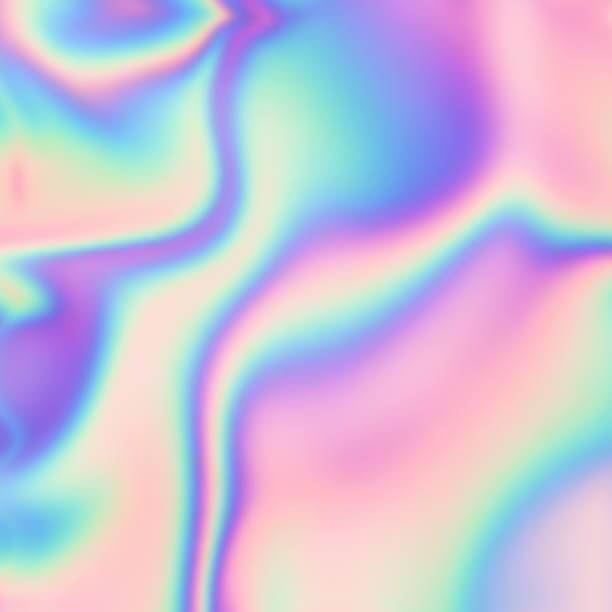
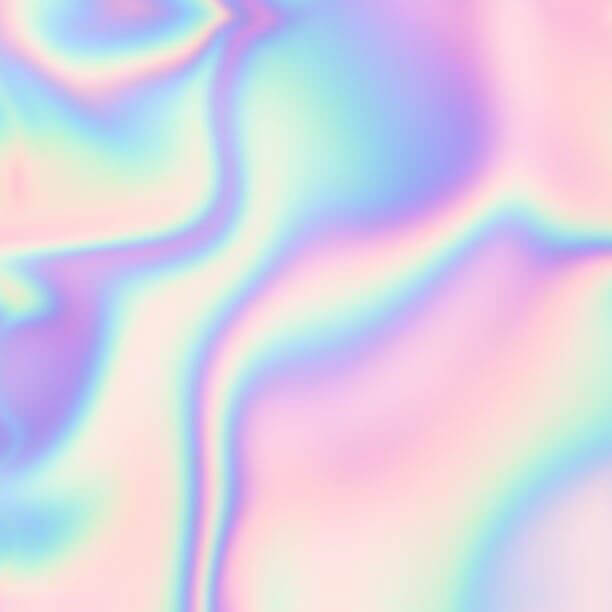
update

diff --git a/src/pages/expedition.js b/src/pages/expedition.js
@@ -4,15 +4,91 @@ export default function () {
     return (
         <React.Fragment>
             {/* For Instant Chest - NFT / Artifact */}
-            <div className={styles.row}>
+            <div className={styles.row} style={{ paddingBottom: 0 }}>
+                <div className={styles.pool} style={{ background: '#fec137' }}> {/*active true for on staking pool */}
+                    <div className={styles.cover_wrapper} >
+                        <img src="dummy/desert.png" className={styles.cover} />
+
+                    </div>
+                    <div className={styles.title}>
+                        THE GOLDEN CHEST
+                    </div>
+                    <div className={styles.condition}>
+                        <div className={styles.minimum}>
+                            <img src="assets/zoo32x32.png" />
+                            30,000
+                        </div>
+                        <div className={styles.hour}>
+                            <img src="assets/hourglass24x24.png" />
+                            <span>INSTANT</span>
+
+                        </div>
+                    </div>
+
+                    <div className={styles.reward}>
+                        <div className={styles.type}>
+                            <img src="assets/goldenbox48x48.png" />
+                            <div className={styles.x}>×</div>
+                            <div className={styles.amount}>1</div>
+                        </div>
+                        <div className={styles.description}>
+                            <div>SPEND ZOO AND GET</div>
+                            <div>1 GOLDEN CHEST</div>
+                        </div>
+                    </div>
+                    <a className={styles.action_btn}>
+                        BUY GOLDEN CHEST
+                    </a>
+
+                </div>
+
+                <div className={styles.pool} style={{ background: '#cbcbcb' }}> {/*active true for on staking pool */}
+                    <div className={styles.cover_wrapper} >
+                        <img src="dummy/desert.png" className={styles.cover} />
+
+                    </div>
+                    <div className={styles.title}>
+                        THE SILVER CHEST
+                    </div>
+                    <div className={styles.condition}>
+                        <div className={styles.minimum}>
+                            <img src="assets/zoo32x32.png" />
+                            3,000
+                        </div>
+                        <div className={styles.hour}>
+                            <img src="assets/hourglass24x24.png" />
+                            <span>INSTANT</span>
+
+                        </div>
+                    </div>
+
+                    <div className={styles.reward}>
+                        <div className={styles.type}>
+                            <img src="assets/silverbox48x48.png" />
+                            <div className={styles.x}>×</div>
+                            <div className={styles.amount}>1</div>
+                        </div>
+                        <div className={styles.description}>
+                            
+                            <div>SPEND ZOO AND GET</div>
+                            <div>1 SILVER CHEST</div>
+
+                        </div>
+                    </div>
+                    <a className={styles.action_btn}>
+                        BUY SILVER CHEST
+                    </a>
+
+                </div>
 
             </div>
-            <div className={styles.row}>
+
+            <div className={styles.row} style={{ paddingTop: 0 }}>
                 <div className={styles.pool} data-active="true"> {/*active true for on staking pool */}
                     <div className={styles.cover_wrapper} >
                         <img src="dummy/desert.png" className={styles.cover} />
-                        <div  className={styles.tvl}>
-                            <div  className={styles.amount}>
+                        <div className={styles.tvl}>
+                            <div className={styles.amount}>
                                 555,555,555.00
                             </div>
                             ZOO LOCKED
@@ -29,7 +105,7 @@ export default function () {
                         <div className={styles.hour}>
                             <img src="assets/hourglass24x24.png" />
                             <span>72 Hours</span>
-                            
+
                         </div>
                     </div>
 
@@ -42,17 +118,17 @@ export default function () {
                         <div className={styles.description}>
                             <div>STAKE AND LOCK</div>
                             <div>ZOO AND GET</div>
-                            <div>1 GOLDENCHEST</div>
-                            
+                            <div>1 GOLDEN CHEST</div>
+
                         </div>
                     </div>
                     <a className={styles.action_btn}>
                         Stake ZOO
                     </a>
-                    <a className={styles.action_btn} style={{display:'none'}}>
+                    <a className={styles.action_btn} style={{ display: 'none' }}>
                         Claim 1 Artifact
                     </a>
-                    <a className={styles.pending_btn} style={{display:'none'}}>
+                    <a className={styles.pending_btn} style={{ display: 'none' }}>
                         35:45:15 Left
                     </a>
                 </div>
@@ -60,8 +136,8 @@ export default function () {
                 <div className={styles.pool} data-active="true"> {/*active true for on staking pool */}
                     <div className={styles.cover_wrapper} >
                         <img src="dummy/cave.png" className={styles.cover} />
-                        <div  className={styles.tvl}>
-                            <div  className={styles.amount}>
+                        <div className={styles.tvl}>
+                            <div className={styles.amount}>
                                 555,555,555.00
                             </div>
                             ZOO LOCKED
@@ -78,7 +154,7 @@ export default function () {
                         <div className={styles.hour}>
                             <img src="assets/hourglass24x24.png" />
                             <span>72 Hours</span>
-                            
+
                         </div>
                     </div>
 
@@ -91,17 +167,17 @@ export default function () {
                         <div className={styles.description}>
                             <div>STAKE AND LOCK</div>
                             <div>ZOO AND GET</div>
-                            <div>1 GOLDENCHEST</div>
-                            
+                            <div>1 GOLDEN CHEST</div>
+
                         </div>
                     </div>
-                    <a className={styles.action_btn} style={{display:'none'}}>
+                    <a className={styles.action_btn} style={{ display: 'none' }}>
                         Stake ZOO
                     </a>
                     <a className={styles.action_btn}>
                         Claim 1 Golden Chest
                     </a>
-                    <a className={styles.pending_btn} style={{display:'none'}}>
+                    <a className={styles.pending_btn} style={{ display: 'none' }}>
                         35:45:15 Left
                     </a>
                 </div>
@@ -109,8 +185,8 @@ export default function () {
                 <div className={styles.pool} data-active="true"> {/*active true for on staking pool */}
                     <div className={styles.cover_wrapper} >
                         <img src="dummy/jungle.png" className={styles.cover} />
-                        <div  className={styles.tvl}>
-                            <div  className={styles.amount}>
+                        <div className={styles.tvl}>
+                            <div className={styles.amount}>
                                 555,555,555.00
                             </div>
                             ZOO LOCKED
@@ -127,7 +203,7 @@ export default function () {
                         <div className={styles.hour}>
                             <img src="assets/hourglass24x24.png" />
                             <span>72 Hours</span>
-                            
+
                         </div>
                     </div>
 
@@ -140,14 +216,14 @@ export default function () {
                         <div className={styles.description}>
                             <div>STAKE AND LOCK</div>
                             <div>ZOO AND GET</div>
-                            <div>1 GOLDENCHEST</div>
-                            
+                            <div>1 GOLDEN CHEST</div>
+
                         </div>
                     </div>
-                    <a className={styles.action_btn} style={{display:'none'}}>
+                    <a className={styles.action_btn} style={{ display: 'none' }}>
                         Stake ZOO
                     </a>
-                    <a className={styles.action_btn} style={{display:'none'}}>
+                    <a className={styles.action_btn} style={{ display: 'none' }}>
                         Claim 1 Golden Chest
                     </a>
                     <a className={styles.pending_btn}>

diff --git a/src/pages/market.less b/src/pages/market.less
@@ -463,11 +463,17 @@
 /* For CARD*/
 
 @keyframes fluid {
-  from {
+  0% {
     background-position: top;
   }
 
-  to {
+  50%{
+    background-position: left;
+  }
+
+ 
+
+  100% {
     background-position: bottom;
   }
 }
@@ -522,12 +528,12 @@
       .flip_card_front[data-is-max="true"]
       {
         background-image: url(../../public/assets/holo.jpg); 
-        background-size: 500%;
+        background-size: 400%;
         animation-iteration-count: infinite;
         animation-direction: alternate;
         animation-timing-function: linear;
         animation-name: fluid;
-        animation-duration:  10s;
+        animation-duration:  30s;
         .item_description .description
         {
           background:transparent;
